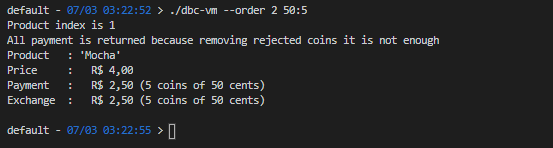
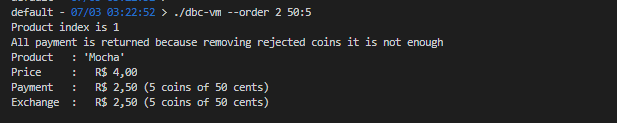
Update readme.md file

Changed region(s): [[0.0, 0.0, 0.7993, 0.5122], [0.0, 0.5366, 0.4919, 0.7561], [0.0, 0.7805, 0.4611, 0.9512]]

diff --git a/README.md b/README.md
@@ -51,12 +51,23 @@ Ordering the item with index 2 using only 50 cent coins, BUT in NOT enough balan
 
  ```
 
-    > ./dbc-vm --order 2 100:5
+    > ./dbc-vm --order 2 50:5
 
  ```
  ![Image 4](screenshots/image-04.png)
 
- 
+
+Ordering the item with index 3 using 50 cent coins, and some 5 cent and 1 cent coins that will be returned following the rules.
+
+ ```
+
+    > ./dbc-vm --order 3 50:8  5:10  1:3
+
+ ```
+ ![Image 5](screenshots/image-05.png)
+
+
+
  
  
 
